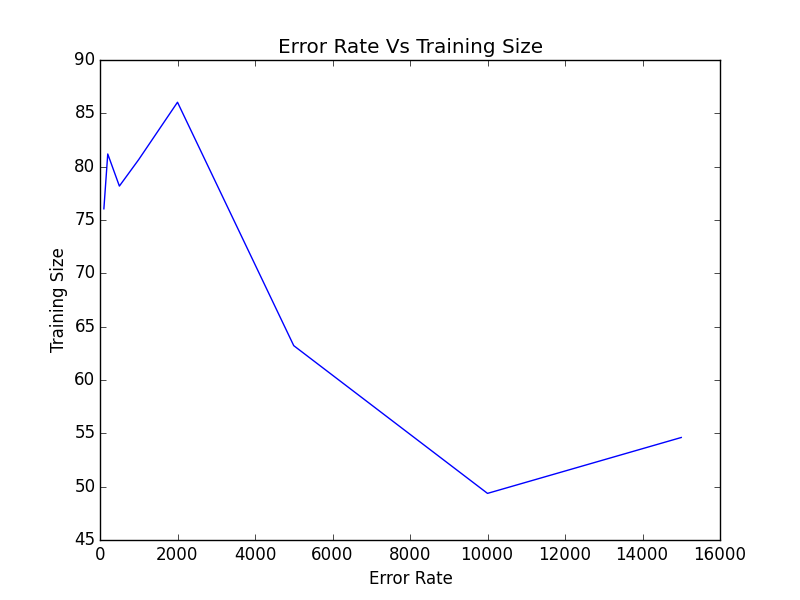
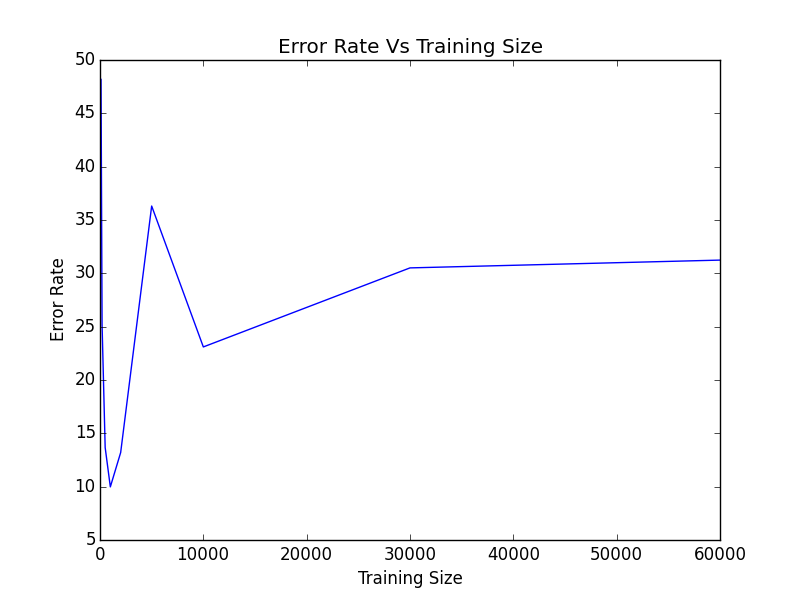
It's getting better! Made some small modifications, implemented cross validation. Interestingly, the lowest error rate in training is for training size of 1000, then it increases, then plateaus

diff --git a/HW3/problem4.py b/HW3/problem4.py
@@ -12,35 +12,33 @@ from scipy.stats import multivariate_normal as norm
 # Input: SVC object, data, labels, num folds
 # Output: Array of scores averaged for each fold
 ###################################
-def computeCV_Score(clf, data, labels, folds):
+def computeCV_Score(clf_local, data, labels, folds, weight):
     i = 0
     j = 0
     accuracy = 0.0
     scores = []
-    clf_local = clf
+    (all_mu, all_cov, all_prior) = clf_local
     # For each fold trained on...
     for i in range(folds):
         # Initialize variables
-        clf_local = clf
         j = 0
         accuracy = 0
-
-        clf_local.fit(data[i], labels[i])
-        # For each validation performed (k-1 total) on a fold
         for j in range(folds):
             if(j!=i):
-                predicted_Digits = clf_local.predict(data[j])
+                predicted_Digits = gauss_predict(data[j], all_mu, all_cov, all_prior, False, weight)
                 for (elem1, elem2) in zip(predicted_Digits, labels[j]):
                     if elem1 == elem2:
                         accuracy+=1
                     else:
-                        print data[i].shape
-                        plt.imshow(data[i])
-                        plt.show()
+                        pass
+#                         print data[i].shape
+#                         plt.imshow(data[i])
+#                         plt.show()
                 
             j+=1
         scores.append(100.0*accuracy/((folds-1)*len(predicted_Digits)))
         i+=1
+        print weight, scores
     return np.array(scores)
 ###################################
 
@@ -92,20 +90,25 @@ def train_gauss(im_data, labels):
 #         plt.imshow(cov)
 #         plt.show()
             
-        print prior, i
+#         print prior, i
         all_cov.append(cov)
         all_prior.append(prior)
         all_mu.append(mu)
     return all_mu, all_cov, all_prior
 
-def gauss_predict(data, all_mu, overall_cov, all_prior):
+def gauss_predict(data, all_mu, all_cov, all_prior, overall = True, weight = 0.001):
     labelled_list = []
     
     # Create PDFs
     n = []
     for label in range(0, 10):
         mu = all_mu[label]
-        cov = overall_cov
+        if overall == True:
+            cov = np.mean(all_cov)
+        else:
+            # add small value to diag to remove singularity
+            small_value = weight*np.eye(len(all_cov[0]))
+            cov = all_cov[label]+small_value
         n.append(norm(mean=mu, cov=(cov)))
                 
     for elem in data:
@@ -123,7 +126,7 @@ import pylab as plt
 
 DEBUG = False
 ############# FILE STUFF ############# 
-testFileMNIST = "./digit-dataset/test.mat"
+testFileMNIST = "./digit-dataset/kaggle.mat"
 trainFileMNIST = "./digit-dataset/train.mat"
 
 
@@ -165,15 +168,14 @@ for elem in imageComplete:
     
 errorRate_array = []
 C = np.linspace(1,3,16)                   # array of values for parameter C
-training_Size = [100, 200, 500, 1000, 2000, 5000, 10000, 15000]
+training_Size = [100, 200, 500, 1000, 2000, 5000, 10000, 30000, 60000]
 for elem in training_Size:
     all_mu, all_cov, all_prior = train_gauss(shuffledData[:elem], np.array(shuffledLabels[:elem]))
-    overall_cov = np.mean(all_cov)   
         
     predicted_Digits = gauss_predict(shuffledData[50000:], all_mu,\
-                                      overall_cov, all_prior)
+                                      all_cov, all_prior, overall = False)
     
-    print predicted_Digits
+#     print predicted_Digits
     
     actual_Digits = shuffledLabels[50000:]
     accuracy = 0.0
@@ -192,11 +194,60 @@ for elem in training_Size:
 fig = plt.figure()
 ax = fig.add_subplot(111)
 ax.set_title('Error Rate Vs Training Size')
-ax.set_ylabel('Training Size')
-ax.set_xlabel('Error Rate')
+ax.set_xlabel('Training Size')
+ax.set_ylabel('Error Rate')
 ax.plot(training_Size, errorRate_array)
 plt.savefig("./Results/ErrorRate_TrainingSize.png")
 ####################################### 
         
-        
+#########################################################
+# CROSS VALIDATION 
+#########################################################
+print 50*'='
+print "CROSS VALIDATION"
+print 50*'='
+
+############# DATA PARTIONING ############# 
+crossValidation_Data= []
+crossValidation_Labels = []
+k = 10 
+lengthData = 10000
+stepLength = k
+for index in range(0,k):
+    crossValidation_Data.append(shuffledData[index:lengthData:stepLength])
+    crossValidation_Labels.append(shuffledLabels[index:lengthData:stepLength])
+
+if DEBUG:
+    print "Lengths of CV Data and Labels: ", np.array(crossValidation_Data).shape, np.array(crossValidation_Labels).shape
+    print 50*'-'
+
+scoreBuffer = []
+
+
+############# Cross Validation ############# 
+small_weight = np.linspace(0.01, 0.0001, 10)
+for weight in small_weight:
+    (all_mu, all_cov, all_prior) = train_gauss(shuffledData[:elem], np.array(shuffledLabels[:elem]))
+    class_params = (all_mu, all_cov, all_prior)
+    scores = computeCV_Score(class_params, np.array(crossValidation_Data), crossValidation_Labels, k, weight)
+    scoreBuffer.append((scores).mean())
+    if DEBUG:
+        print "C Value:", weight, "Accuracy: %0.2f (+/- %0.2f)" % ((scores).mean(), np.array(scores).std() / 2)
+        print 50*'-'
+ 
+maxScore = np.max(np.array(scoreBuffer))
+maxScore_Index = scoreBuffer.index(maxScore)
+ 
+print "Using BuiltIn CV Function"
+print "Best C Value:", small_weight[maxScore_Index], "Accuracy for that C:", maxScore
+print 50*'-'
+
+#########################################################
+# FOR KAGGLE
+#########################################################
+indices = np.array(range(1,len(testData_flat)+1))
+kaggle_format =  np.vstack(((indices), (gauss_predict(testData_flat,all_mu, all_cov, all_prior, False, small_weight[maxScore_Index])))).T
+
+np.savetxt("./Results/Digits.csv", kaggle_format, delimiter=",", fmt = '%d,%d',   header = 'Id,Category', comments='') 
+
 print 5*"-The End-"
